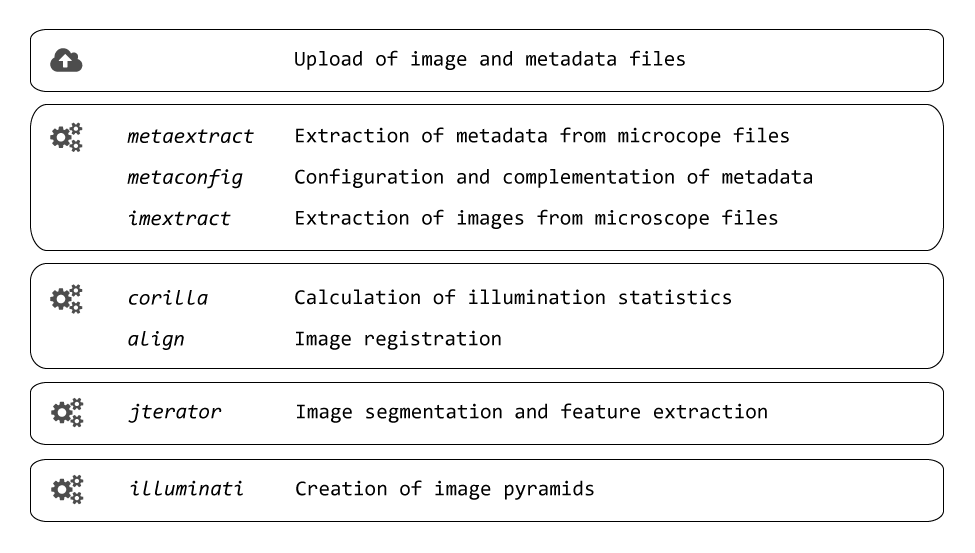
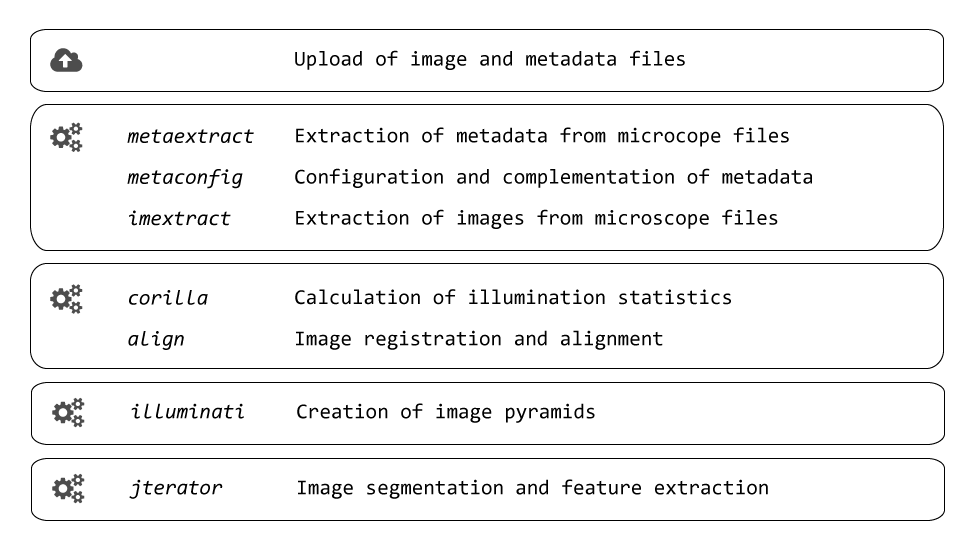
Update documentation

diff --git a/docs/conf.py b/docs/conf.py
@@ -20,7 +20,7 @@ import shlex
 # add these directories to sys.path here. If the directory is relative to the
 # documentation root, use os.path.abspath to make it absolute, like shown here.
 sys.path.insert(0, os.path.abspath('.'))
-sys.path.append(os.path.join(os.path.dirname(__name__), '..'))
+sys.path.append(os.path.join(os.path.dirname(__name__), '..', '..'))
 
 # -- General configuration ------------------------------------------------
 
@@ -123,7 +123,7 @@ todo_include_todos = True
 
 # The theme to use for HTML and HTML Help pages.  See the documentation for
 # a list of builtin themes.
-html_theme = 'alabaster'  # 'sphinxdoc'
+html_theme = 'alabaster'
 
 # Theme options are theme-specific and customize the look and feel of a theme
 # further.  For a list of options available for each theme, see the
@@ -305,12 +305,14 @@ texinfo_documents = [
 intersphinx_mapping = {'https://docs.python.org/': None}
 
 
-# Include documentation for __init__ special member
-def skip(app, what, name, obj, skip, options):
-    if name == "__init__":
-        return False
-    return skip
+# # Include documentation for __init__ special member
+# def skip(app, what, name, obj, skip, options):
+#     if name == "__init__":
+#         return False
+#     return skip
 
 
-def setup(app):
-    app.connect("autodoc-skip-member", skip)
+# def setup(app):
+#     app.connect("autodoc-skip-member", skip)
+
+autoclass_content = 'both'

diff --git a/docs/introduction.rst b/docs/introduction.rst
@@ -27,7 +27,7 @@ On the server side, `TissueMAPS` uses Python as a glue language and the `tmlib` 
 File system configuration
 =========================
 
-The organizational unit of `TissueMAPS` is an **Experiment**, which is represented by a directory on disk that holds the microscopic image files and related files for metadata, calculated statistics or extracted features.
+The organizational unit of `TissueMAPS` is an `experiment`, which is represented by a directory on disk that holds the microscopic image files and related files for metadata, calculated statistics or extracted features.
 
 .. _user-configuration-settings:
 
@@ -47,108 +47,129 @@ By default, all files belonging to an experiment are stored within the root expe
 Workflow
 ========
 
-The data unit for visualization of images and the corresponding features is a **Layer**. `TissueMAPS` supports two types of layers and their generation requires different image processing steps:
+The data unit for visualization of images and the corresponding features is a `Layer`. `TissueMAPS` supports two types of layers and their generation requires different image processing steps:
 
 **Channel** layers are comprised of the actual microscopic raster images. For interactive visualization via the web, images are converted into `zoomify <http://www.zoomify.com/>`_ format. These so called `pyramids <https://en.wikipedia.org/wiki/Pyramid_(image_processing)>`_ represent a large image by several smaller image tiles (stored in `JPEG <http://www.jpeg.org>`_ files) at different resolution levels. Only the tiles that are required for the current view are loaded and streamed to the client.
 
 **Object** layers represent geometrical structures, such as cell segmentations or wells in a multi-well plate. They are rendered on the client side as vector graphics. The data that specifies the location of objects in the map as well as the corresponding features that describe properties of the objects are stored in `HDF5 <https://www.hdfgroup.org/HDF5/>`_ files. 
 
 
-The generation of these layers from the microscopic images generally involves different processing **stages**, each of which is composed of a sequence of individual **steps**:
+The generation of these layers from the microscopic images generally involves different processing :ref:`stages`, each of which is composed of a sequence of individual **steps**:
 
 .. image:: ./_static/TissueMAPS_workflow.png
     :height: 400px
 
 
-.. _steps:
+.. _stages:
 
-Steps
------
+Stages
+------
 
-Each *step* of a workflow *stage* corresponds to a subpackage of the `tmlib` package:
+A workflow `stage` is composed of several *steps* and each `step` corresponds to a subpackage of the `tmlib` package.
 
-- `metaextract <tmlib.metaextract.html>`_: **Extraction of metadata from microscope files**
+.. _image-conversion:
+
+Image conversion
+^^^^^^^^^^^^^^^^
+
+- :doc:`metaextract <tmlib.metaextract>`: **Extraction of metadata from microscope files**
     Microscopes usually store images together with additional acquisition information in vendor-specific formats. These are often not understood by standard readers. The `Bio-Formats <https://www.openmicroscopy.org/site/products/bio-formats>`_ Java library is used to extract the metadata from heterogeneous image file formats. These are stored as `OMEXML <https://www.openmicroscopy.org/site/support/ome-model/ome-xml/index.html>`_ files according to the standardized `OME <https://www.openmicroscopy.org/site/support/ome-model/>`_ data model.
 
-- `metaconfig <tmlib.metaconfig.html>`_: **Configuration and Complementation of metadata**
+- :doc:`metaconfig <tmlib.metaconfig>`: **Configuration and complementation of metadata**
     The information that can be retrieved from individual image files is often not sufficient for automated processing in subsequent steps. In particular, information about the position of images within the scanned grid, which is required to stitch individual images together for the creation of an overview of the entire acquisition area, may not be available from image files, but rather needs to be provided by additional microscope-specific metadata files or user input. Metadata from these various resources is combined into a single *OMEXML* per image acquisition.
 
-- `imextract <tmlib.imextract.html>`_: **Extraction of images from files**
+- :doc:`imextract <tmlib.imextract>`: **Extraction of images from files**
     Image files may contain more than one image. For example, images acquired at different *z*-resolutions are often stored in the same file. Some microscopes even store all images in a single file. 
     These formats are not practical, because they require specialized readers. In addition, it is desirable to apply image compression to save storage space. To these ends, each 2D plate is extracted from the original file and stored in a separate `PNG <http://www.libpng.org/pub/png/>`_ file. Optionally, images acquired at different *z*-resolutions (*z*-stacks) are projected to 2D. Note that mapping from source to target files is already created in the `metaconfig` step.
 
-- `corilla <tmlib.corilla.html>`_: **Calculation of illumination statistics**
+.. image-preprocessing:
+
+Image preprocessing
+^^^^^^^^^^^^^^^^^^^
+
+- :doc:`corilla <tmlib.corilla>`: **Calculation of illumination statistics**
     Microscopic images generally display illumination artifacts. Correction of these artifacts is important for visualization and even more so for quantitative analysis of pixel intensity values. Illumination statistics are pre-calculated across all acquisition sites and stored in `HDF5 <https://www.hdfgroup.org/HDF5/>`_ files. They can later be applied to individual images for correction.
 
-- `align <tmlib.align.html>`_: **Image registration and alignment**
+- :doc:`align <tmlib.align>`: **Image registration and alignment**
     Images may be acquired at different time points with a potential shift in x-y directions between acquisitions. In order to be able to overlay images from different *cycles*, images have to be registered and aligned. Shift statistics are pre-calculated for each acquisition site and stored as `JSON <http://www.json.org/>`_ files.
 
-- `jterator <tmlib.jterator.html>`_: **Image segmentation and feature extraction**
+.. _pyramid-creation:
+
+Pyramid creation
+^^^^^^^^^^^^^^^^
+
+- :doc:`illuminati <tmlib.illuminati>`: **Creation of image pyramids**
+    Individual images are stitched together to one big overview image according the positional information provided by the obtained metadata. Images are also corrected for illumination artifacts and aligned if necessary based on the calculated illumination and shift statistics, respectively. Segmented objects get global IDs assigned and their locations within images are translated into global map coordinates. Channel images are stored in `JPEG <http://www.jpeg.org>`_.
+
+.. _image-analysis:
+
+Image analysis
+^^^^^^^^^^^^^^
+
+- :doc:`jterator <tmlib.jterator>`: **Image segmentation and feature extraction**
     Biologically meaningful objects (e.g. "cells") are detected in the images by segmentation and features can be extracted for the detected objects.
     To this end, users can build custom image analysis *pipelines* by combining available modules in a `CellProfiler <http://cellprofiler.org/>`_ like web interface. The outlines of segmented objects and the extracted features are stored in `HDF5 <https://www.hdfgroup.org/HDF5/>`_ files.
 
-- `illuminati <tmlib.illuminati.html>`_: **Creation of image pyramids**
-    Individual images are stitched together to one big overview image according the positional information provided by the obtained metadata. Images are also corrected for illumination artifacts and aligned if necessary based on the calculated illumination and shift statistics, respectively. Segmented objects get global IDs assigned and their locations within images are translated into global map coordinates. Channel images are stored in `JPEG <http://www.jpeg.org>`_.
 
+.. _building-workflows:
 
-Programmatically, each step is represented by `GC3Pie tasks <http://gc3pie.readthedocs.org/en/latest/programmers/api/gc3libs/workflow.html#gc3libs.workflow.SequentialTaskCollection>`_, which can combined into larger automated workflows. Individual steps are added to the workflow dynamically at runtime, but the steps can be configured in advance via the configuration settings file. To this end, the user needs to provide the required arguments for each step and can overwrite default settings for optional arguments.
+Building workflows
+------------------
+
+Programmatically, each step is represented by `GC3Pie tasks <http://gc3pie.readthedocs.org/en/latest/programmers/api/gc3libs/workflow.html#gc3libs.workflow.SequentialTaskCollection>`_, which can combined into larger automated workflows. Individual steps are added to the :ref:`workflow` dynamically at runtime, but the steps can be configured in advance via a configuration settings file. To this end, the user needs to provide the required arguments for each step and can overwrite default settings for optional arguments.
+
+For the list of arguments that can be parsed to each step please refer to the documentation of the *args* module in the corresponding package.
 
 .. _command-line-interface:
 
 Command-line interface
 ----------------------
 
-Each of the above listed packages contains the following modules, which provide an application programming interface (**API**) and a command-line interface (**CLI**):
-
-- **argparser**: Serves an instance of class `argparse.ArgumentParser <https://docs.python.org/3/library/argparse.html#argumentparser-objects>`_ that processes command line arguments and parses them to the *cli* class. The parser has the same name as the package and each subparser has a corresponding method in the *cli* class.
-- **cli**: The *cli* class gets initialized with the parsed arguments and the method with the name of the specified subparser gets called. The method in turn initializes an instance of the *api* class and delegates the actual processing to lower level methods of this class. Of particular importance for the workflow is the *init* method, which handles arguments for fine-tuning of the step and creates persistent job descriptions on disk.
-- **api**: The *api* class provides methods for all *GC3Pie* related magic, such as creation and submission of jobs.
-
-
-The *api* and *cli* classes inherit from the `CommandLineInterface` and `ClusterRoutines` base classes, respectively. This approach makes it easy to further extend the workflow by additional steps and allows a common syntax for command line calls:
+Each `step` provides a command-line interface (**CLI**) with a similar syntax:
 
 .. code-block:: bash
 
-    <class_name> <class_args> <method_name> <method_args>
+    <step> <general_args> <method> <specific_args>
 
-where
-
-* **class_name** is the name of the main parser corresponding to the *cli* class of an individual step
-* **class_args** are arguments that are handled by the main parser, such as the logging verbosity level or the path to the directory of the experiment that should be processed, which are used to instantiate the corresponding *api* class
-* **method_name** is the name of a subparser corresponding to a method of the *cli* class
-* **method_args** are arguments that are handled by the subparser and are forwarded to the methods of the *api* class
 
 The ``-h`` or ``--help`` argument can be used to get help for a particular step:
 
 .. code-block:: bash
     
-    <class_name> --help
+    <step> --help
 
 It can also be used to get help for individual methods available for a particular step:
 
 .. code-block:: bash
 
-    <class_name> <class_args> <method_name> --help
+    <step> <genarl_args> <method> --help
+
+.. note::
+
+    General positional arguments have to be provided to display the help message for a particular method.
 
 
 By default, each step is equipped with the following methods:
 
 * **init**: initialize a step and create persistent job descriptions
 * **run**: run an individual job on the local machine
-* **submit**: submit all jobs to the cluster and continuously monitor their status
+* **submit**: submit all jobs to the cluster and continuously monitor their status (performs all *runs* in parallel)
+* **cleanup**: remove all outputs created by previous *runs*/*submissions*
 
-Optionally, steps may provide additional methods, such as:
+Some steps may provide additional methods, such as:
 
-* **collect**: collect the job output of parallel runs and fuse the data spread across individual files into a single dataset if necessary
+* **collect**: collect the job output of parallel *runs* and fuse the data spread across individual files into a single dataset if necessary
 * **apply**: apply statistics calculated by the step to individual images
 
+.. _example:
 
-Here is an example call for the `metaconvert` step:
+Example
+^^^^^^^
 
 .. code-block:: bash
     
-    metaconfig -v ./ init --format cellvoyager
+    metaconfig -v ./ init --file_format cellvoyager
 
 
-would initialize the `metaconfig` step and create persistent job descriptions on disk, which could subsequently be used to *run* or *submit* jobs. It further specifies a custom file format and thereby adapts the behavior of the program. 
+would initialize the `metaconfig` step and create persistent job descriptions on disk, which could subsequently be used to *run* or *submit* jobs. It further specifies a custom file format for the configuration of image metadata. 
 

diff --git a/docs/developer_guide.rst b/docs/developer_guide.rst
@@ -1,3 +1,31 @@
+
+.. _subpackages
+
+Subpackages
+===========
+
+Each subpackage represents a :term:`step` and provides an application programming interface (**API**) and a command-line interface (**CLI**).
+It must contain the following modules:
+
+- **args**: Defines the arguments that can be parsed to the step.
+- **argparser**: Serves an instance of class `argparse.ArgumentParser <https://docs.python.org/3/library/argparse.html#argumentparser-objects>`_ that processes arguments provided via the command line and parses them to the *cli* class. The parser has the same name as the package and each subparser has a corresponding method in the *cli* class.
+- **cli**: The *cli* class gets initialized with the parsed arguments (either from the command line or dynamically within a :term:`workflow`) and the method with the name of the specified subparser gets called. The method in turn initializes an instance of the *api* class and delegates the actual processing to lower level methods of this class. Of particular importance for the workflow is the *init* method, which handles arguments for fine-tuning of the step and creates persistent job descriptions on disk.
+- **api**: The *api* class provides methods for all *GC3Pie* related magic, such as creation and submission of jobs.
+
+
+The *api* and *cli* classes inherit from the `CommandLineInterface` and `ClusterRoutines` base classes, respectively. This approach makes it easy to further extend the workflow by additional steps and allows a common syntax for command line calls:
+
+.. code-block:: bash
+
+    <class_name> <class_args> <method_name> <method_args>
+
+where
+
+* **class_name** is the name of the main parser corresponding to the *cli* class of an individual step
+* **class_args** are arguments that are handled by the main parser, such as the logging verbosity level or the path to the directory of the experiment that should be processed, which are used to instantiate the corresponding *api* class
+* **method_name** is the name of a subparser corresponding to a method of the *cli* class
+* **method_args** are arguments that are handled by the subparser and are forwarded to the methods of the *api* class
+
 .. _documentation
 
 Documentation

diff --git a/docs/tmlib.metaconfig.rst b/docs/tmlib.metaconfig.rst
@@ -23,6 +23,14 @@ tmlib.metaconfig.argparser module
 .. autoprogram:: tmlib.metaconfig.argparser:parser
     :prog: metaconfig
 
+tmlib.metaconfig.args module
+----------------------------
+
+.. automodule:: tmlib.metaconfig.args
+    :members:
+    :undoc-members:
+    :show-inheritance:
+
 tmlib.metaconfig.cellvoyager module
 -----------------------------------
 

diff --git a/docs/tmlib.metaextract.rst b/docs/tmlib.metaextract.rst
@@ -23,6 +23,14 @@ tmlib.metaextract.argparser module
 .. autoprogram:: tmlib.metaextract.argparser:parser
     :prog: metaextract
 
+tmlib.metaextract.args module
+-----------------------------
+
+.. automodule:: tmlib.metaextract.args
+    :members:
+    :undoc-members:
+    :show-inheritance:
+
 tmlib.metaextract.cli module
 ----------------------------
 

diff --git a/docs/tmlib.illuminati.rst b/docs/tmlib.illuminati.rst
@@ -23,6 +23,14 @@ tmlib.illuminati.argparser module
 .. autoprogram:: tmlib.illuminati.argparser:parser
     :prog: illuminati
 
+tmlib.illuminati.args module
+----------------------------
+
+.. automodule:: tmlib.illuminati.args
+    :members:
+    :undoc-members:
+    :show-inheritance:
+
 tmlib.illuminati.cli module
 ---------------------------
 

diff --git a/docs/tmlib.jterator.rst b/docs/tmlib.jterator.rst
@@ -23,6 +23,14 @@ tmlib.jterator.argparser module
 .. .. autoprogram:: tmlib.jterator.argparser:parser
 ..     :prog: jterator
 
+tmlib.jterator.args module
+--------------------------
+
+.. automodule:: tmlib.jterator.args
+    :members:
+    :undoc-members:
+    :show-inheritance:
+
 tmlib.jterator.checkers module
 ------------------------------
 

diff --git a/docs/tmlib.imextract.rst b/docs/tmlib.imextract.rst
@@ -23,6 +23,14 @@ tmlib.imextract.argparser module
 .. autoprogram:: tmlib.imextract.argparser:parser
     :prog: imextract
 
+tmlib.imextract.args module
+---------------------------
+
+.. automodule:: tmlib.imextract.args
+    :members:
+    :undoc-members:
+    :show-inheritance:
+
 tmlib.imextract.cli module
 --------------------------
 

diff --git a/docs/tmlib.corilla.rst b/docs/tmlib.corilla.rst
@@ -23,6 +23,14 @@ tmlib.corilla.argparser module
 .. autoprogram:: tmlib.corilla.argparser:parser
     :prog: corilla
 
+tmlib.corilla.args module
+-------------------------
+
+.. automodule:: tmlib.corilla.args
+    :members:
+    :undoc-members:
+    :show-inheritance:
+
 tmlib.corilla.cli module
 ------------------------
 

diff --git a/docs/tmlib.align.rst b/docs/tmlib.align.rst
@@ -23,6 +23,14 @@ tmlib.align.argparser module
 .. autoprogram:: tmlib.align.argparser:parser
     :prog: align
 
+tmlib.align.args module
+-----------------------
+
+.. automodule:: tmlib.align.args
+    :members:
+    :undoc-members:
+    :show-inheritance:
+
 tmlib.align.cli module
 ----------------------
 

diff --git a/docs/tmlib.rst b/docs/tmlib.rst
@@ -18,6 +18,14 @@ Subpackages
 Submodules
 ----------
 
+tmlib.args module
+----------------
+
+.. automodule:: tmlib.args
+    :members:
+    :undoc-members:
+    :show-inheritance:
+
 tmlib.cfg module
 ----------------
 
